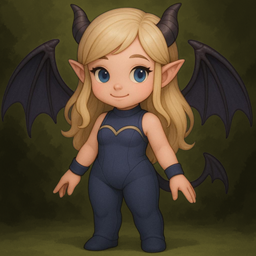
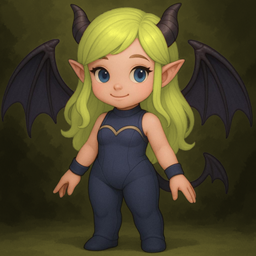
[feat]유닛 썸네일 색상 변경 및 플레이어 이동속도 버프

Changed region(s): [[0.2188, 0.0312, 0.7812, 0.5938], [0.5625, 0.5625, 0.625, 0.6562]]

diff --git a/Assets/01.Scripts/02.Entity/MobileEntity/CharacterEntity/PlayerModel.cs b/Assets/01.Scripts/02.Entity/MobileEntity/CharacterEntity/PlayerModel.cs
@@ -44,7 +44,7 @@ public class PlayerModel: BaseModel
     {
         MaxHealth = new(250f, nameof(MaxHealth), this);
         CurHealth = new(MaxHealth.Value, nameof(CurHealth), this);
-        MoveSpeed = new(4f, nameof(MoveSpeed), this);
+        MoveSpeed = new(5.5f, nameof(MoveSpeed), this);
         NormalizedHP = new(1f, this);
         
         Action<float> recalc = _ => NormalizedHP.SetValue(CurHealth.Value / MaxHealth.Value, this);
